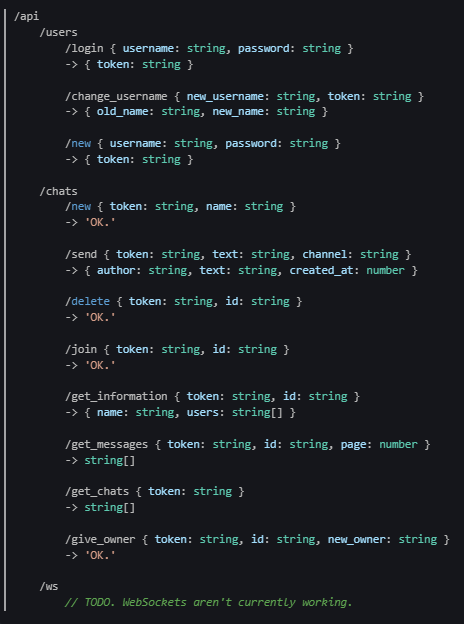
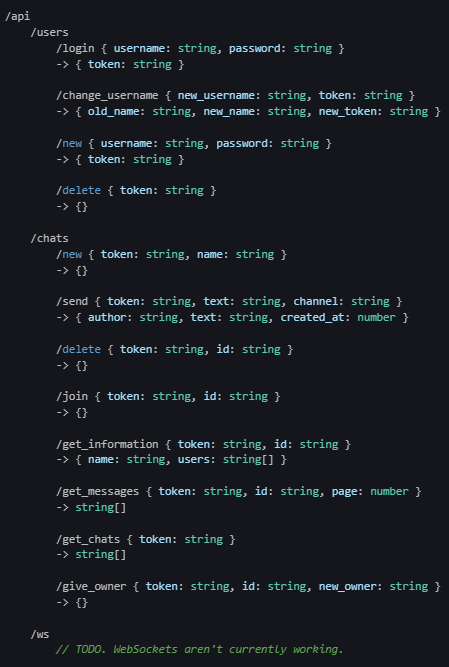
:camera_flash: Fixed API_ROUTES.md

diff --git a/API_ROUTES.md b/API_ROUTES.md
@@ -1,8 +1,8 @@
 # **API GUIDE**
 
-- [screenshot (recommended for mobile)](#screenshot-recommended-if-youre-on-your-phone)
+- [screenshot (recommended for mobile)](#screenshot)
 
-```ts
+```c
 /api
 	/users
 		/login { username: string, password: string }
@@ -15,7 +15,7 @@
 		-> { token: string }
 
 		/delete { token: string }
-		-> { }
+		-> {}
 
 	/chats
 		/new { token: string, name: string }
